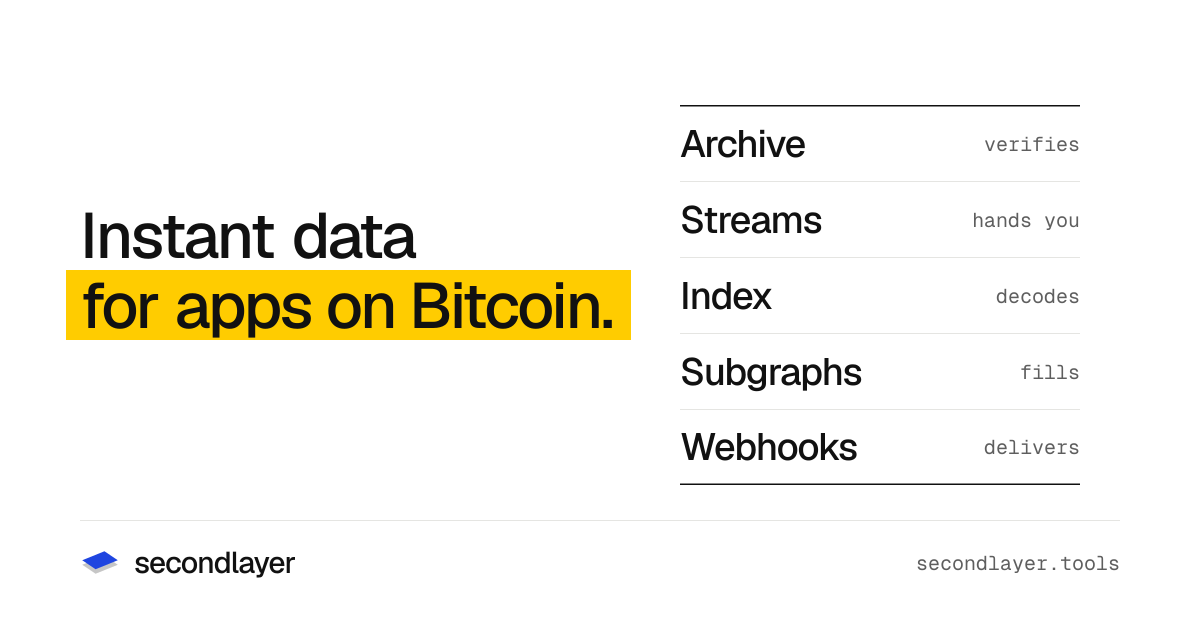
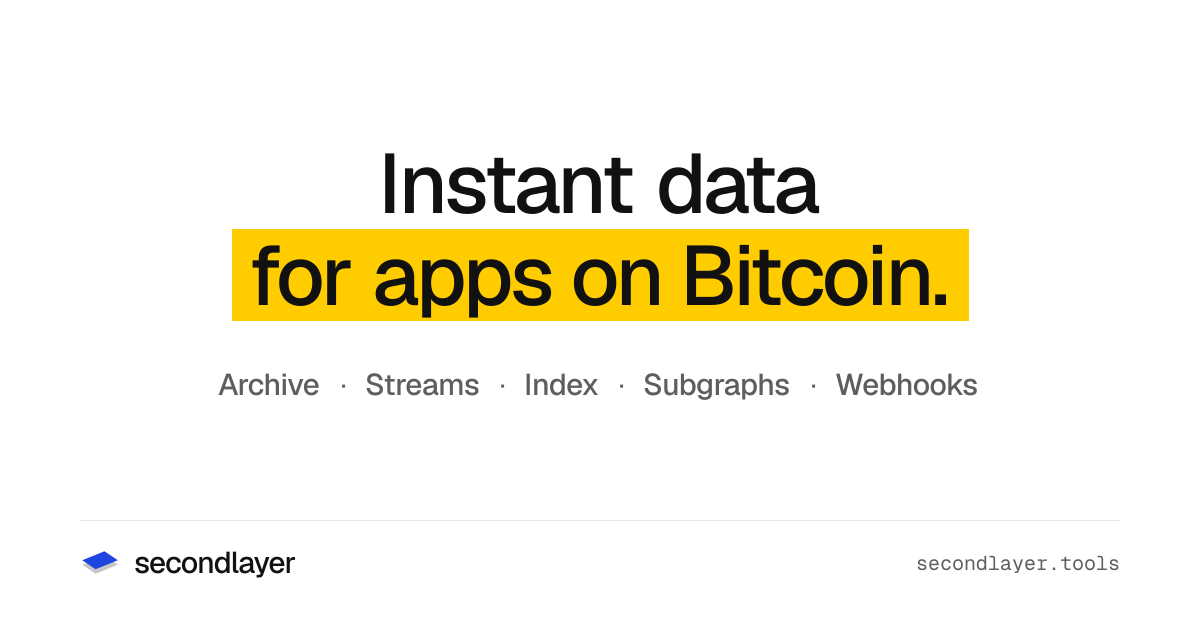
feat(web): home share card centered like the home hero, products in one row

diff --git a/apps/web/scripts/generate-og.tsx b/apps/web/scripts/generate-og.tsx
@@ -174,41 +174,26 @@ function VLine({ height }: { height: number }) {
 // ── artifacts (flat, simplified from the page heroes) ────────────────────────
 
 function ArtHome() {
-	const rows: [string, string][] = [
-		["Archive", "verifies"],
-		["Streams", "hands you"],
-		["Index", "decodes"],
-		["Subgraphs", "fills"],
-		["Webhooks", "delivers"],
-	];
+	const nouns = ["Archive", "Streams", "Index", "Subgraphs", "Webhooks"];
 	return (
-		<div style={{ display: "flex", flexDirection: "column", width: 400 }}>
-			{rows.map(([noun, verb], i) => (
+		<div style={{ display: "flex", alignItems: "center", gap: 18 }}>
+			{nouns.map((noun, i) => (
 				<div
 					key={noun}
-					style={{
-						display: "flex",
-						alignItems: "center",
-						justifyContent: "space-between",
-						height: 76,
-						borderTop: i === 0 ? `1.5px solid ${INK}` : `1px solid ${LINE}`,
-						borderBottom: i === rows.length - 1 ? `1.5px solid ${INK}` : "none",
-					}}
+					style={{ display: "flex", alignItems: "center", gap: 18 }}
 				>
+					{i > 0 ? <span style={{ fontSize: 26, color: SUB }}>·</span> : null}
 					<span
 						style={{
 							fontFamily: "Geist",
 							fontWeight: 500,
-							fontSize: 38,
-							color: INK,
-							letterSpacing: -1.2,
+							fontSize: 30,
+							color: SUB,
+							letterSpacing: -0.6,
 						}}
 					>
 						{noun}
 					</span>
-					<T size={20} color={SUB}>
-						{verb}
-					</T>
 				</div>
 			))}
 		</div>
@@ -1024,6 +1009,9 @@ type CardSpec = {
 	artifact: React.ReactNode;
 	/** Highlight color behind line 2 (yellow; Robin Neon on the partner card). */
 	highlight?: string;
+	/** Center the headline with the artifact underneath (home), matching the
+	    centered home hero. Default is headline left, artifact right. */
+	centered?: boolean;
 };
 
 function Footer({ path }: { path: string }) {
@@ -1062,7 +1050,61 @@ function Footer({ path }: { path: string }) {
 	);
 }
 
+function CenteredFrame(spec: CardSpec) {
+	const { size } = spec;
+	const hl = spec.highlight ?? YELLOW;
+	const line = {
+		fontFamily: "Geist",
+		fontWeight: 500,
+		fontSize: size,
+		color: INK,
+		lineHeight: 1.1,
+		letterSpacing: -size * 0.04,
+	};
+	return (
+		<div
+			style={{
+				position: "relative",
+				width: "100%",
+				height: "100%",
+				display: "flex",
+				flexDirection: "column",
+				background: PAPER,
+				padding: "0 80px",
+				fontFamily: "Geist",
+			}}
+		>
+			<div
+				style={{
+					height: 540,
+					display: "flex",
+					flexDirection: "column",
+					alignItems: "center",
+					justifyContent: "center",
+					gap: 44,
+				}}
+			>
+				<div
+					style={{
+						display: "flex",
+						flexDirection: "column",
+						alignItems: "center",
+					}}
+				>
+					<span style={line}>{spec.line1}</span>
+					<span style={{ ...line, background: hl, padding: "0 16px" }}>
+						{spec.line2}
+					</span>
+				</div>
+				{spec.artifact}
+			</div>
+			<Footer path={spec.path} />
+		</div>
+	);
+}
+
 function Frame(spec: CardSpec) {
+	if (spec.centered) return <CenteredFrame {...spec} />;
 	const { size } = spec;
 	const hl = spec.highlight ?? YELLOW;
 	return (
@@ -1156,8 +1198,9 @@ const CARDS: CardSpec[] = [
 		eyebrow: null,
 		line1: "Instant data",
 		line2: "for apps on Bitcoin.",
-		size: 64,
+		size: 84,
 		path: SITE,
+		centered: true,
 		artifact: <ArtHome />,
 	},
 	{
